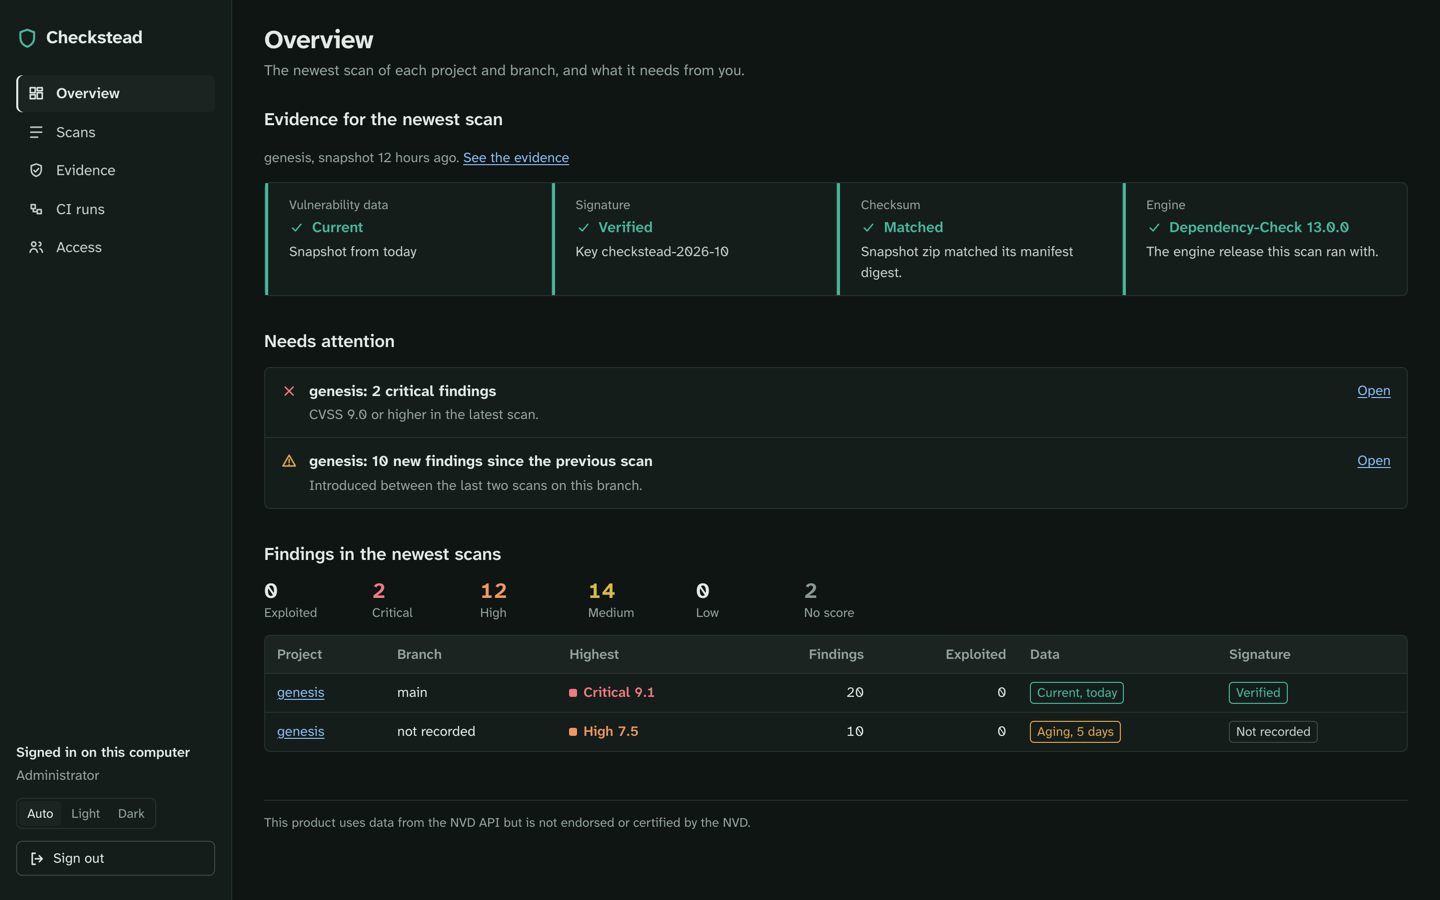
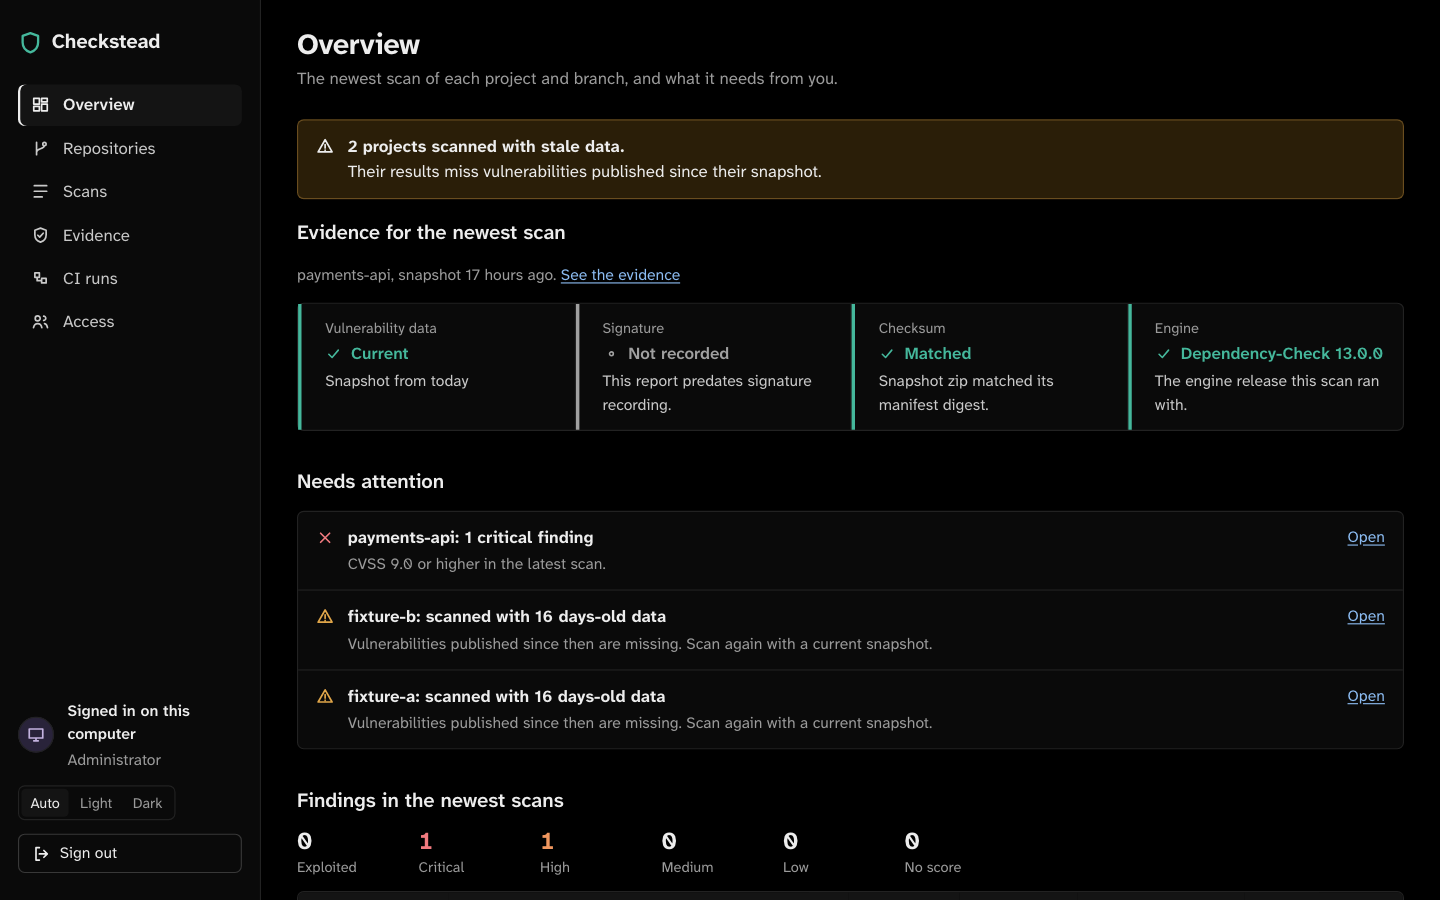
docs: true-dark Overview screenshot and a Repositories screenshot
overview-dark.png predated PR 35's true-dark theme. Both screenshots come from
a local server with the fixture scans plus two sample reports sent with
`checkstead upload` (main clean; a feature branch adding commons-collections
3.2.1 under threshold 7). The README says they are sample data.

diff --git a/README.md b/README.md
@@ -158,9 +158,13 @@ CI runs lists Checkstead workflow runs once the GitHub App is installed. Until t
 
 ![Access, with the add form and the signed-in administrator marked You.](docs/screenshots/access.png)
 
+Repositories groups the reports pipelines send by organization, project, repository, and branch, and shows each branch's newest result with a link to its pipeline run. This screenshot and the dark one below use two sample reports sent with `checkstead upload`, built from the repository's fixture scans: `main` with no findings, and a feature branch that adds commons-collections 3.2.1 (CVE-2015-7501 and CVE-2015-6420) under a threshold of 7.
+
+![Repositories: Azure DevOps organization contoso, project Payments, repository payments-api with two branches. main passes with no findings; feature/upgrade-logging fails the score policy.](docs/screenshots/repositories.png)
+
 The theme follows the system setting, and you can switch it with Auto, Light, or Dark. Below 900 pixels, the navigation moves to the top and tables drop secondary columns.
 
-![Overview in the dark theme.](docs/screenshots/overview-dark.png)
+![Overview in the dark theme: one critical finding in payments-api first, then the two fixture scans with 16-day-old data.](docs/screenshots/overview-dark.png)
 
 <img src="docs/screenshots/overview-mobile.png" alt="Overview on a 375 pixel wide phone screen." width="375">
 
